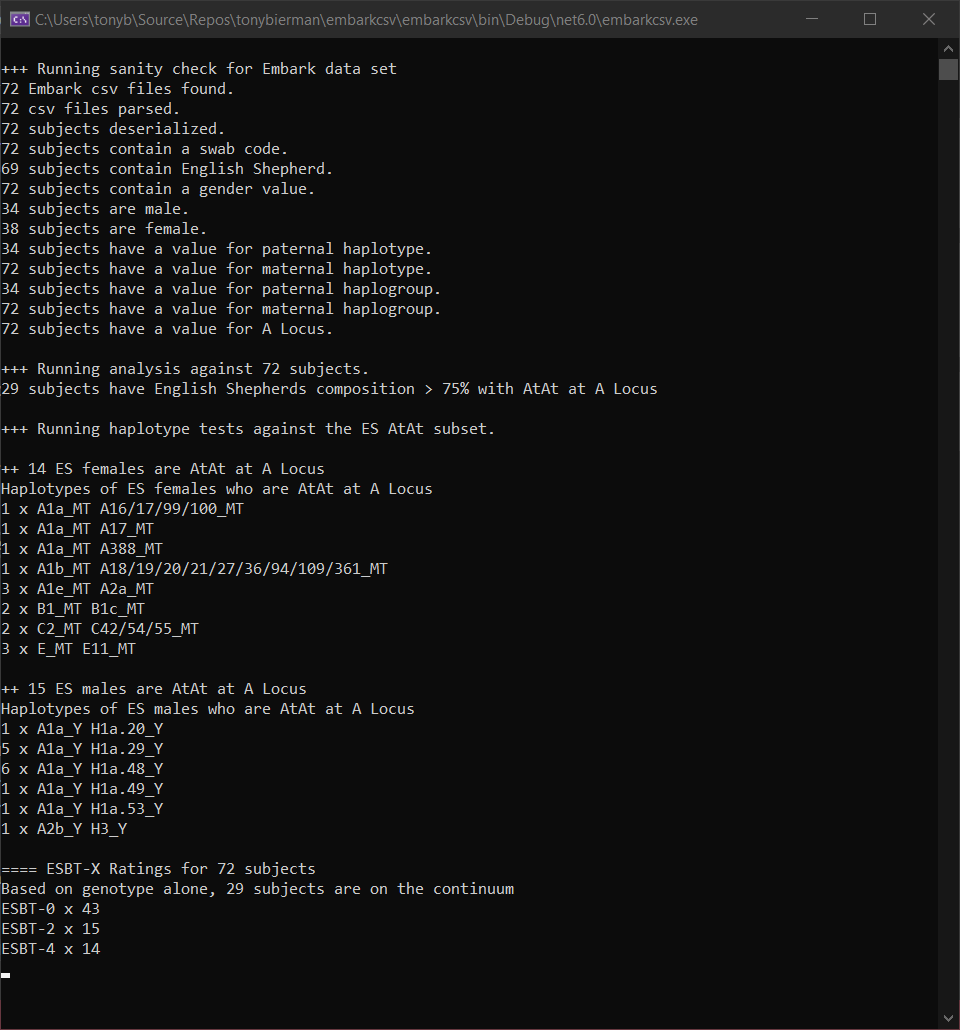
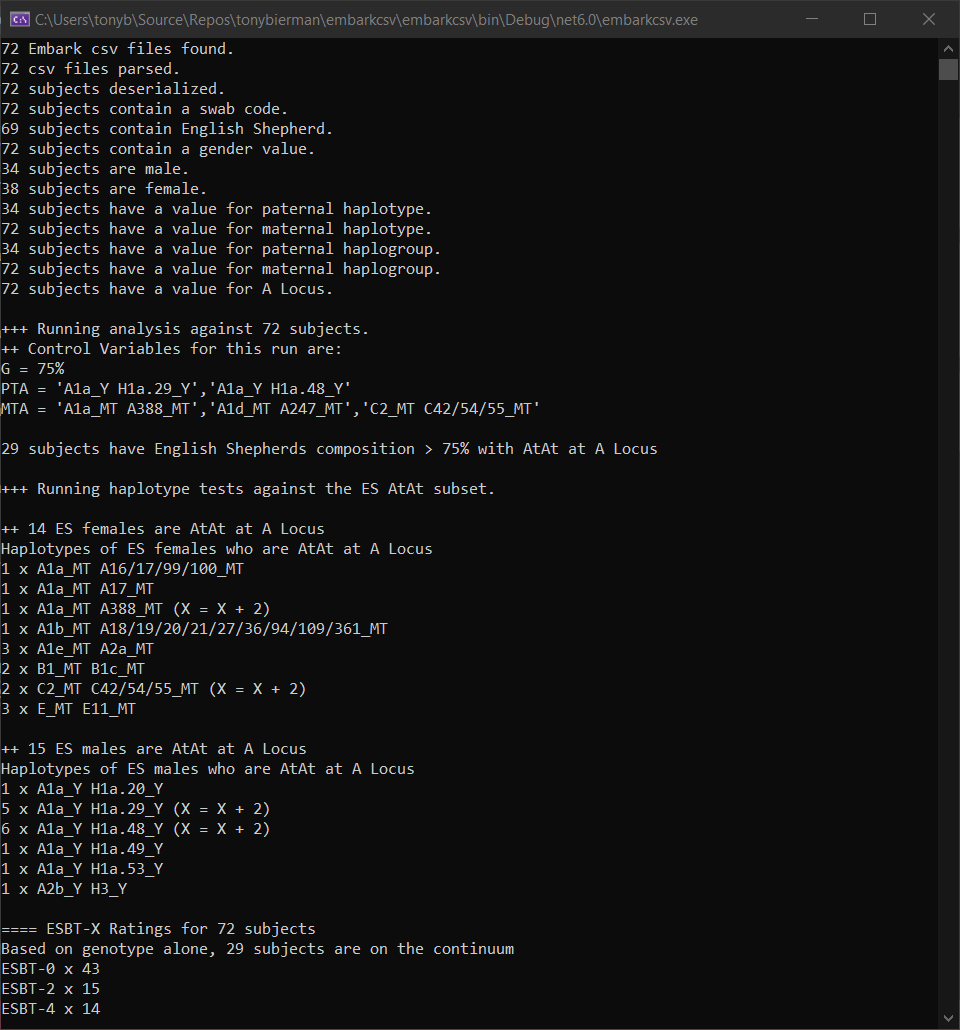
UI updates

diff --git a/embarkcsv/Program.cs b/embarkcsv/Program.cs
@@ -12,6 +12,8 @@ namespace EmbarkCsv
         {
             // Control variables
             double cv_G = 75;
+            string[] cv_MTA = new string[] { "A1a_MT A388_MT", "A1d_MT A247_MT", "C2_MT C42/54/55_MT" };
+            string[] cv_PTA = new string[] { "A1a_Y H1a.29_Y", "A1a_Y H1a.48_Y" };
 
             List<EmbarkSubject> subjects = new List<EmbarkSubject>();
             string[] fileEntries = Directory.GetFiles(args[0], "*.csv");
@@ -92,6 +94,13 @@ namespace EmbarkCsv
             // Run Hypothesis
             int isAtAtEs = 0;
             Console.WriteLine($"\n\r+++ Running analysis against {subjects.Count()} subjects.");
+            Console.WriteLine("++ Control Variables for this run are:");
+            Console.WriteLine($"G = {cv_G}%");
+            string pta = string.Join(',', cv_PTA.Select(x => $"'{x}'"));
+            Console.WriteLine($"PTA = {pta}");
+            string mta = string.Join(',', cv_MTA.Select(x => $"'{x}'"));
+            Console.WriteLine($"MTA = {mta}");
+
             // Hypothesis A Locus and ES > G
             foreach (var s in subjects.Where(a => a.HasLocusA()))
             {
@@ -104,7 +113,7 @@ namespace EmbarkCsv
                     }
                 }
             }
-            Console.WriteLine($"{isAtAtEs} subjects have English Shepherds composition > {cv_G}% with AtAt at A Locus");
+            Console.WriteLine($"\n\r{isAtAtEs} subjects have English Shepherds composition > {cv_G}% with AtAt at A Locus");
             Console.WriteLine($"\n\r+++ Running haplotype tests against the ES AtAt subset.");
 
             // Females
@@ -124,16 +133,15 @@ namespace EmbarkCsv
             Console.WriteLine($"Haplotypes of ES females who are AtAt at A Locus");
             foreach (var s in groupFemales.ToList())
             {
-                Console.WriteLine($"{s.Count()} x {s.Key}");
+                string val = cv_MTA.Contains(s.Key) ? "(X = X + 2)" : "";
+                Console.WriteLine($"{s.Count()} x {s.Key} {val}");
             }
             
             // Score females for AtAt && PTA control variable
             foreach (var s in queryFemales.ToList())
             {
                 // For MTA control variable
-                if (s.HaplotypeToTest() == "A1a_MT A388_MT" ||
-                   s.HaplotypeToTest() == "A1d_MT A247_MT" ||
-                   s.HaplotypeToTest() == "C2_MT C42/54/55_MT")
+                if (cv_MTA.Contains(s.HaplotypeToTest()))
                 {
                     s.X = s.X + 2;
                 }
@@ -156,15 +164,15 @@ namespace EmbarkCsv
             Console.WriteLine($"Haplotypes of ES males who are AtAt at A Locus");
             foreach (var s in groupMales.ToList())
             {
-                Console.WriteLine($"{s.Count()} x {s.Key}");
+                string val = cv_PTA.Contains(s.Key) ? "(X = X + 2)" : "";
+                Console.WriteLine($"{s.Count()} x {s.Key} {val}");
             }
 
             // Score males for AtAt && PTA control variable
             foreach (var s in queryMales.ToList())
             {
                 // For PTA control variable
-                if (s.HaplotypeToTest() == "A1a_Y H1a.29_Y" ||
-                   s.HaplotypeToTest() == "A1a_Y H1a.48_Y")
+                if (cv_PTA.Contains(s.HaplotypeToTest()))
                 {
                     s.X = s.X + 2;
                 }
